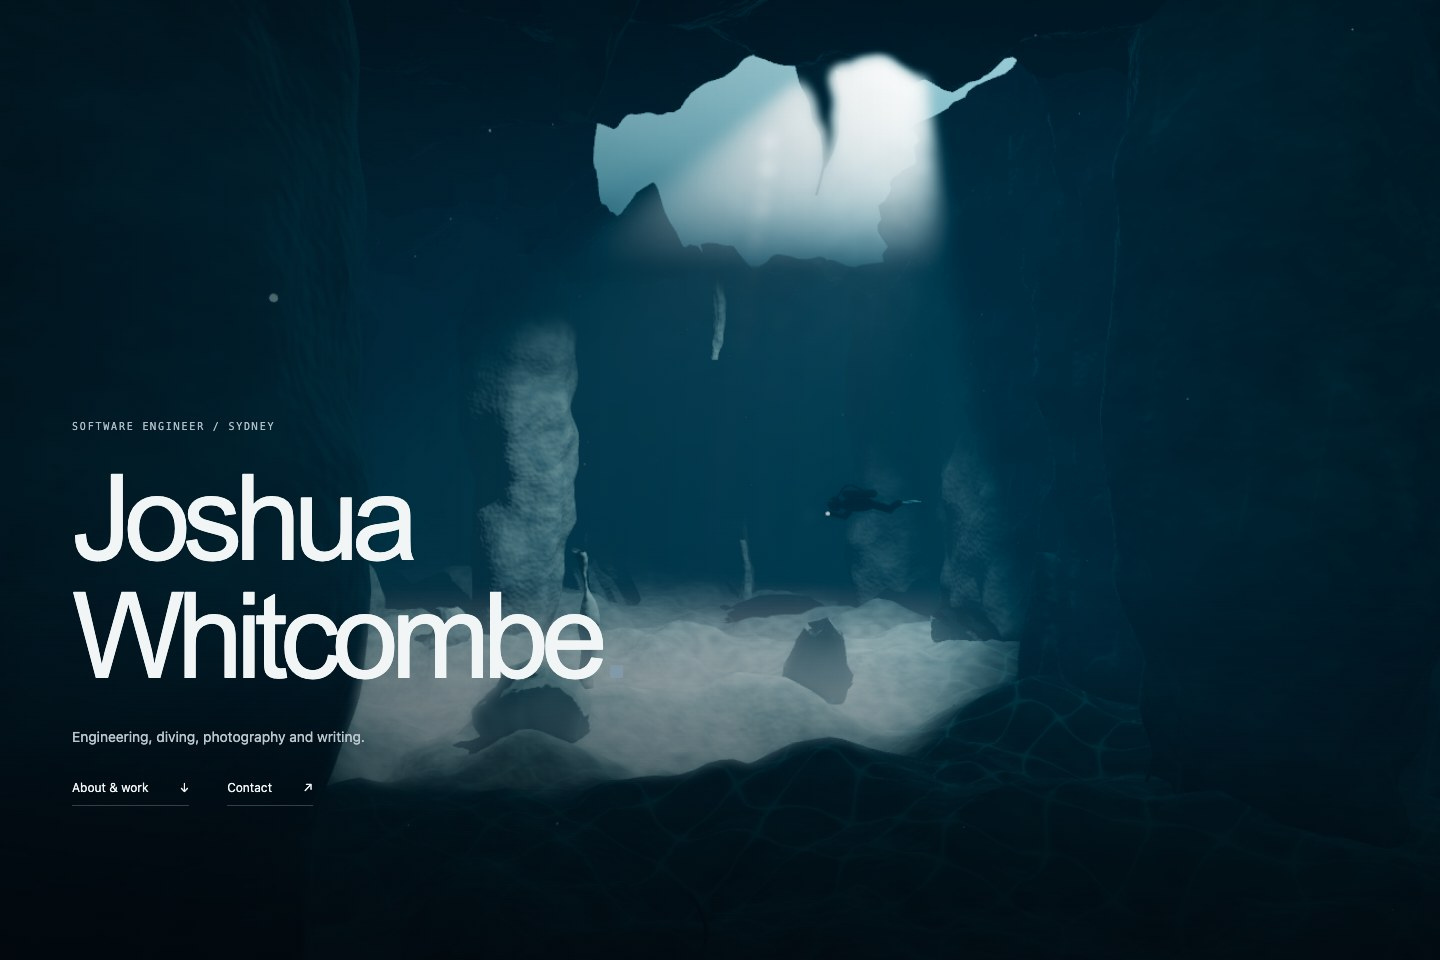
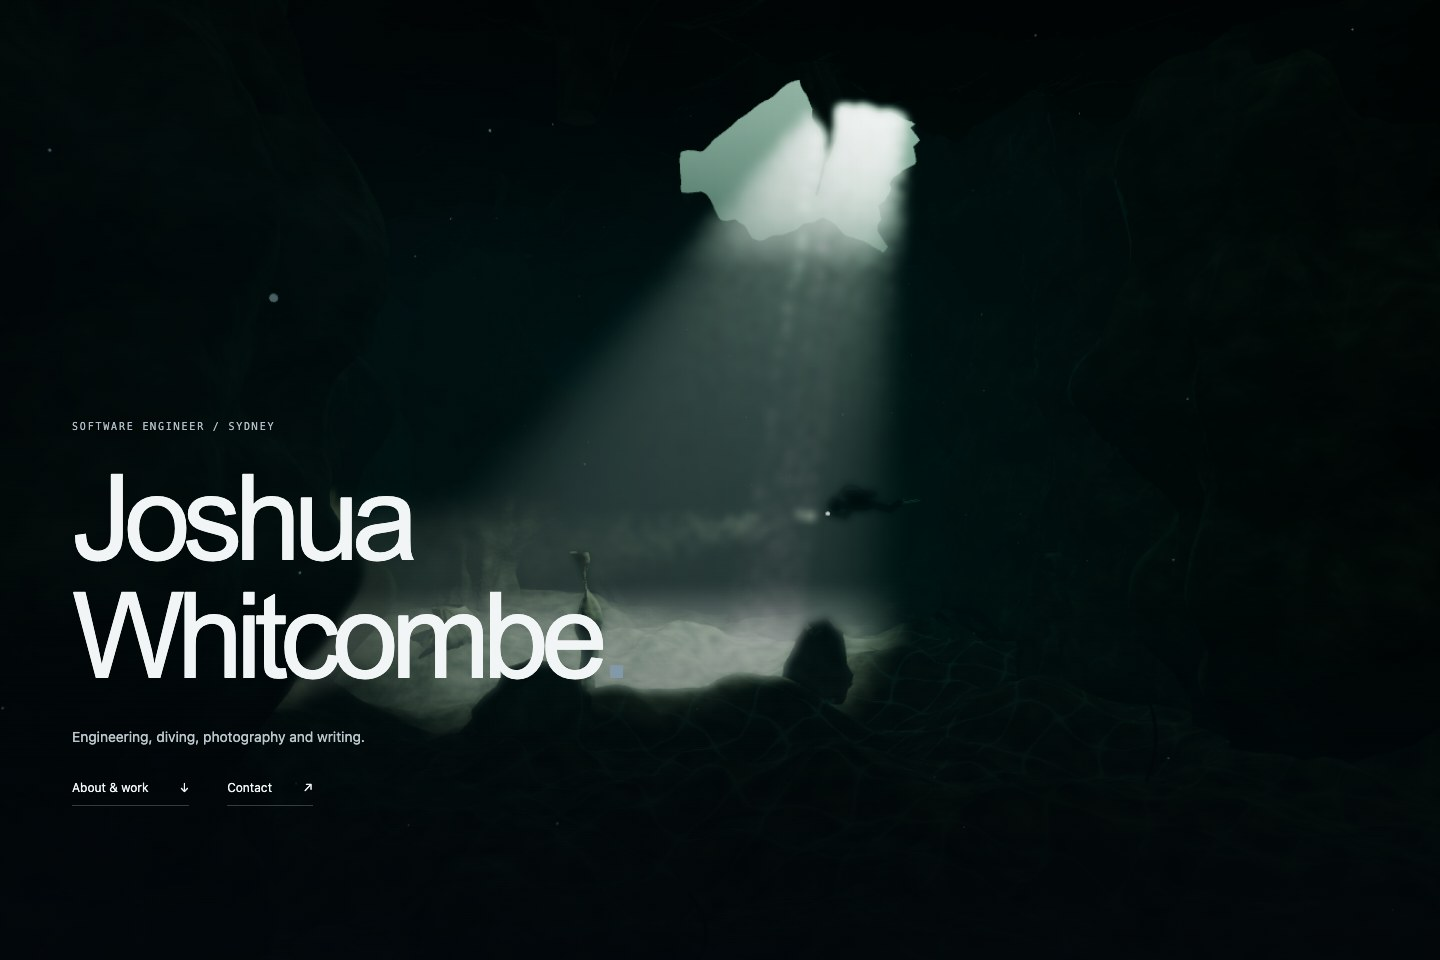
Refine cave geology and restrained lighting from diving references

diff --git a/web/cave-scene.js b/web/cave-scene.js
@@ -5,13 +5,13 @@ import {geology,noise,surface,chamberSurfaces,floorHeight} from './cave-geometry
 
 export function createCave(renderer) {
   const scene=new THREE.Scene();
-  scene.background=new THREE.Color(0x052b38);
-  scene.fog=new THREE.FogExp2(0x052b38,.023);
+  scene.background=new THREE.Color(0x031b1b);
+  scene.fog=new THREE.FogExp2(0x031b1b,.019);
   const camera=new THREE.PerspectiveCamera(56,1,.15,120);
   const clock=uniform(0);
   const rock=new THREE.MeshStandardNodeMaterial({roughness:.91,metalness:.05,side:THREE.DoubleSide});
   const grain=mx_noise_float(positionWorld.mul(1.6)).mul(.5).add(.5);
-  rock.colorNode=mix(vec3(.08,.115,.12),vec3(.28,.32,.29),grain);
+  rock.colorNode=mix(vec3(.065,.075,.055),vec3(.34,.32,.23),grain);
   const strata=sin(positionWorld.y.mul(13).add(mx_noise_float(positionWorld.mul(.8)).mul(5))).mul(.035).add(.965);
   rock.colorNode=rock.colorNode.mul(strata);
   const detail=positionWorld.mul(4.5);
@@ -22,7 +22,7 @@ export function createCave(renderer) {
   const caustic=sin(positionWorld.x.mul(2.7).add(sin(positionWorld.z.mul(2).add(clock.mul(.3)))))
     .add(sin(positionWorld.z.mul(3).sub(clock.mul(.2)))).abs().mul(-.7).add(1).max(0).pow(14);
   const lightArea=positionWorld.x.sub(7).pow(2).add(positionWorld.z.add(17).pow(2)).mul(-.005).exp();
-  rock.emissiveNode=vec3(.025,.11,.12).mul(caustic).mul(normalWorld.y.max(0)).mul(lightArea);
+  rock.emissiveNode=vec3(.012,.035,.024).mul(caustic).mul(normalWorld.y.max(0)).mul(lightArea);
   function mesh(geometry,material=rock,parent=scene){
     const object=new THREE.Mesh(geometry,material);object.castShadow=true;object.receiveShadow=true;parent.add(object);return object;
   }
@@ -32,13 +32,13 @@ export function createCave(renderer) {
     const base=ceiling?13:floorHeight(x,z)-.3;
     const data=surface(48,90,(u,v)=>{
       const angle=u*Math.PI*2,y=base+(ceiling?-v:v)*height;
-      const taper=height>16?.8+.2*Math.sin(v*Math.PI):ceiling?Math.pow(1-v,.7):Math.pow(1-v,.6);
-      const r=radius*(.08+.92*taper)*(1+Math.sin(angle*7+v*5)*.04)+geology(x+Math.cos(angle)*radius,y,z+Math.sin(angle)*radius)*.45;
+      const taper=height>16?.64+.28*Math.sin(v*Math.PI)+.12*Math.sin(v*19+x):ceiling?Math.pow(1-v,.7):Math.pow(1-v,.6);
+      const r=radius*(.08+.92*taper)*(1+Math.sin(angle*7+v*5)*.13+Math.sin(angle*13-v*16)*.055)+geology(x+Math.cos(angle)*radius,y,z+Math.sin(angle)*radius)*.7;
       return [x+Math.cos(angle)*Math.max(.04,r)+Math.sin(v*3)*.35,y,z+Math.sin(angle)*Math.max(.04,r)];
     });mesh(geometry(data));
   }
   // Foreground columns and overlapping arches make camera translation legible.
-  [[-9,6,3.8,20],[-13,-8,3.4,20],[14,0,3.4,20],[-7,-29,2.8,20],[15,-32,3,20],[-15,-50,2,18]].forEach(p=>column(...p));
+  [[-12,2,4.8,20],[-15,-15,4.1,20],[17,-3,4.2,20],[-10,-33,3.8,20],[15,-40,3.6,20],[-15,-57,2.8,18]].forEach(p=>column(...p));
   for(let i=0;i<20;i++){
     const x=Math.sin(i*2.39)*16,z=14-i*2.45;
     if(Math.hypot(x-9,z+17)<12)continue;
@@ -54,11 +54,11 @@ export function createCave(renderer) {
     for(let k=0;k<p.count;k++){const a=p.getX(k),b=p.getY(k),c=p.getZ(k),r=1+noise(a*3+i,b*3,c*3)*.2;p.setXYZ(k,a*r,b*r,c*r);}g.computeVertexNormals();
     const b=mesh(g);b.position.set(x,floorHeight(x,z),z);b.scale.set(1+(i%4),.6+(i%3)*.6,1.2+(i%5)*.4);b.rotation.set(i*.1,i*1.9,i*.3);
   }
-  const ambient=new THREE.HemisphereLight(0x72b9c9,0x051016,.5);scene.add(ambient);
-  const sun=new THREE.SpotLight(0xc5f3ff,1800,110,.63,.55,1.5);
+  const ambient=new THREE.HemisphereLight(0x8fae9c,0x010504,.38);scene.add(ambient);
+  const sun=new THREE.SpotLight(0xc9ead8,1450,110,.43,.65,1.5);
   sun.position.set(10,20,-15);sun.target.position.set(0,-7,-23);sun.castShadow=true;sun.shadow.mapSize.set(2048,2048);sun.shadow.bias=-.0003;sun.shadow.normalBias=.12;sun.shadow.camera.near=1;sun.shadow.camera.far=85;scene.add(sun,sun.target);
-  const rim=new THREE.DirectionalLight(0x5caec6,.65);rim.position.set(13,8,-40);scene.add(rim);
-  const waterMaterial=new THREE.MeshStandardNodeMaterial({color:0x49a8b9,emissive:0x7dc8dc,emissiveIntensity:2.2,roughness:.25,metalness:.5,side:THREE.DoubleSide});
+  const rim=new THREE.DirectionalLight(0x529a85,.28);rim.position.set(13,8,-40);scene.add(rim);
+  const waterMaterial=new THREE.MeshStandardNodeMaterial({color:0x49a8b9,emissive:0x97c7af,emissiveIntensity:1.5,roughness:.25,metalness:.5,side:THREE.DoubleSide});
   waterMaterial.positionNode=positionLocal.add(vec3(0,0,sin(positionLocal.x.mul(.7).add(clock.mul(.35))).mul(cos(positionLocal.y.mul(.5).sub(clock.mul(.25)))).mul(.17)));
   const water=mesh(new THREE.PlaneGeometry(80,100,80,100),waterMaterial);water.rotation.x=-Math.PI/2;water.position.set(0,19,-23);water.castShadow=false;
   // A fully modelled diver: body, mask, twin cylinders, hoses, limbs and fins.
@@ -78,16 +78,16 @@ export function createCave(renderer) {
   for(const z of [-.32,.32]){const fin=mesh(new THREE.BoxGeometry(.63,.045,.26,3,1,3),accent,diver);fin.position.set(1.6,.04,z);fin.rotation.z=.08;fins.push(fin);}
   const hose=new THREE.CatmullRomCurve3([new THREE.Vector3(.25,.4,.28),new THREE.Vector3(-.35,.62,.4),new THREE.Vector3(-.82,-.01,.24)]);
   mesh(new THREE.TubeGeometry(hose,30,.032,8,false),suit,diver);
-  const torch=new THREE.SpotLight(0xc8edff,80,22,.18,.75,1.2);torch.position.set(-.97,-.26,.32);torch.target.position.set(-14,-2,.4);diver.add(torch,torch.target);
+  const torch=new THREE.SpotLight(0xe0f4da,230,30,.22,.7,1.2);torch.position.set(-.97,-.26,.32);torch.target.position.set(-14,-2,.4);diver.add(torch,torch.target);
   const lamp=ellipsoid([-.97,-.26,.32],[.06,.055,.055],new THREE.MeshBasicMaterial({color:0xe1faff}));
   const motes=new THREE.InstancedMesh(new THREE.SphereGeometry(.013,5,4),new THREE.MeshBasicNodeMaterial({color:0xaccfd3,transparent:true,opacity:.3}),400);
   const dummy=new THREE.Object3D();for(let i=0;i<400;i++){dummy.position.set(Math.sin(i*127.1)*19,Math.sin(i*311.7)*9+2,Math.sin(i*74.7)*35-15);dummy.scale.setScalar(.5+(i%7)*.17);dummy.updateMatrix();motes.setMatrixAt(i,dummy.matrix);}scene.add(motes);
   motes.material.positionNode=positionLocal.add(vec3(sin(clock.mul(.2).add(instanceIndex.toFloat())).mul(.18),sin(clock.mul(.13).add(instanceIndex.toFloat().mul(.7))).mul(.3),0));
   // Real volumetric lighting receives shadows from the chamber meshes.
   const layer=10;sun.layers.enable(layer);torch.layers.enable(layer);
-  for(let i=0;i<4;i++){
-    const beam=new THREE.SpotLight(0xa8d9eb,2200,65,.055+i*.013,.85,1);
-    beam.position.set(5+i*2.2,18,-14-i*1.5);beam.target.position.set(2+i*1.8,-8,-23-i*1.5);
+  for(let i=0;i<3;i++){
+    const beam=new THREE.SpotLight(0xb8d9c6,1700,65,.035+i*.009,.7,1);
+    beam.position.set(7+i*1.1,18,-16-i*.7);beam.target.position.set(4+i*1.2,-8,-23-i*.8);
     beam.layers.set(layer);scene.add(beam,beam.target);
   }
   const volumeMaterial=new THREE.VolumeNodeMaterial();volumeMaterial.steps=20;
@@ -97,13 +97,13 @@ export function createCave(renderer) {
   const pipeline=new THREE.RenderPipeline(renderer),scenePass=pass(scene,camera);
   volumeMaterial.depthNode=scenePass.getTextureNode('depth').sample(screenUV);
   const lightPass=pass(scene,camera,{depthBuffer:false}),layers=new THREE.Layers();layers.set(layer);lightPass.setLayers(layers);lightPass.setResolutionScale(.4);
-  pipeline.outputNode=scenePass.add(gaussianBlur(lightPass,uniform(.55)).mul(1.4));
+  pipeline.outputNode=scenePass.add(gaussianBlur(lightPass,uniform(.4)).mul(1.1));
   function update(time,x,y,descent,exploreYaw=0,explorePitch=0,zoom=0){
     clock.value=time;const portrait=camera.aspect<.8;
     camera.position.set(-1+x*2.6+Math.sin(exploreYaw)*11,2-y*1.1+explorePitch*6,20-descent*7+Math.cos(exploreYaw)*11-11-zoom);
     camera.lookAt(portrait?5.8:2.5,1+y*.45,-15);
     diver.position.y=.3+Math.sin(time*.6)*.12;diver.rotation.z=Math.sin(time*.4)*.025;
-    fins.forEach((fin,i)=>fin.rotation.z=.08+Math.sin(time*1.5+i*Math.PI)*.13);
+    fins.forEach((fin,i)=>fin.rotation.z=.08+Math.sin(time*.7+i*.3)*.07);
     torch.target.position.y=-2+y*1.5;
   }
   function dispose(){pipeline.dispose();const gs=new Set(),ms=new Set();scene.traverse(o=>{if(o.geometry)gs.add(o.geometry);if(o.material)ms.add(o.material);if(o.shadow)o.shadow.dispose();});gs.forEach(g=>g.dispose());ms.forEach(m=>m.dispose());}

diff --git a/web/cave-geometry.js b/web/cave-geometry.js
@@ -27,7 +27,7 @@ export function chamberSurfaces() {
     surface(180,220,(u,v)=>{const x=u*66-33,z=28-v*110;return [x,floorHeight(x,z),z];}),
     // Annular topology follows the opening exactly, avoiding a stair-stepped grid cutout.
     surface(360,80,(u,v)=>{
-      const angle=u*Math.PI*2,edge=10.5+noise(Math.cos(angle)*2,9,Math.sin(angle)*2)*.7;
+      const angle=u*Math.PI*2,edge=7.5+noise(Math.cos(angle)*2,9,Math.sin(angle)*2)*.7;
       const radius=edge+(62-edge)*v,x=9+Math.cos(angle)*radius/.9,z=-17+Math.sin(angle)*radius/.8;
       return [x,13+geology(x,18,z)*1.2,z];
     }),

diff --git a/README.md b/README.md
@@ -57,7 +57,7 @@ See [SECURITY.md](SECURITY.md). The site’s HTML escapes content; it does not e
 
 ## Cinematic homepage and Diving page
 
-The homepage renders a complete procedural 3D cavern: floor and ceiling meshes, displaced limestone walls, columns, stalactites, boulders, water and a diver model with twin cylinders, mask, hoses, limbs and fins. Its 92 meshes contain approximately 500,000 triangles. There is no image or depth-map projection in the scene. The small static poster is an actual frame of this model, used while loading or if graphics are unavailable.
+The homepage renders a complete procedural 3D cavern: floor and ceiling meshes, displaced limestone walls, columns, stalactites, boulders, water and a diver model with twin cylinders, mask, hoses, limbs and fins. Its meshes contain approximately 500,000 triangles. The limestone, palette and lighting are informed by a Kin Ha diving reference frame; see [reference notes](docs/cave-reference.md). There is no image or depth-map projection in the scene. The small static poster is an actual frame of this model, used while loading or if graphics are unavailable.
 
 Three.js 0.186.1 renders the same scene through WebGPU or WebGL2. World-space procedural materials, animated caustics, shadow maps and a downsampled volumetric-lighting pass provide underwater lighting. Normal cursor movement translates the camera, and scrolling moves it forward. **Explore cave** hides the headline and enables drag to look around, scroll to move, arrow-key navigation, + / − for distance and Escape to return. Normal page scrolling and links remain unchanged outside exploration.
 

diff --git a/docs/cave-reference.md b/docs/cave-reference.md
@@ -1,0 +1,16 @@
+# Cave reference
+
+Visual reference: [Scuba Diving Kin Ha Cenote | Underwater Adventure in Mexico](https://www.youtube.com/watch?v=Nu_E_ashMUU), Roger J. Muller Jr.
+
+A second preview, [Cave Diving — Chinese Garden — Cenote Tajma Ha](https://www.youtube.com/watch?v=oVZPHoEOJUk) by Kyle Honn Guitar, shows dense tapered formations, green-lit limestone and horizontal diver trim. Both players failed to deliver actual playback.
+
+The Kin Ha video’s preview image was inspected in the browser. It shows a dark green chamber, a rough limestone mass behind a horizontally trimmed diver, a pale torch cone and strongly localized illumination. Playback failed when attempting to inspect the footage, so this revision uses the visible preview as an art reference, not a full footage study. Kin Ha also appears in Joshua’s existing Mexico cave-diving story.
+
+Changes informed by that preview:
+
+- Irregular, deeply fluted limestone masses in place of evenly rounded columns.
+- Olive limestone, green-black distance and reduced ambient blue light.
+- A smaller roof opening and narrower, restrained overhead shafts.
+- A stronger diver torch and slower, nearly synchronized fin movement.
+
+This is an original procedural scene informed by the video preview, not a scan or an exact reconstruction of Kin Ha. No video, extracted frame, photo texture or third-party footage is shipped. The fallback poster is rendered from our own mesh scene.
